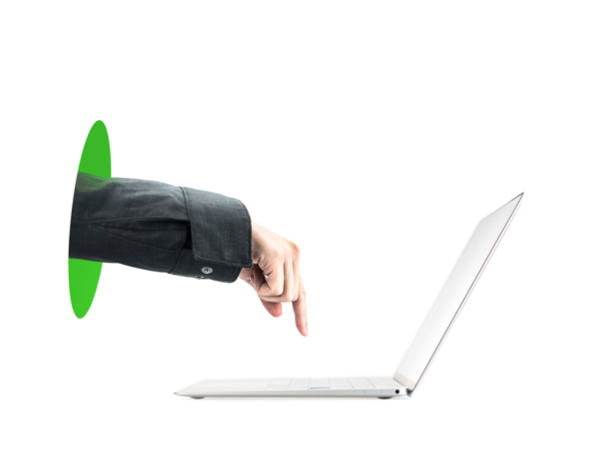
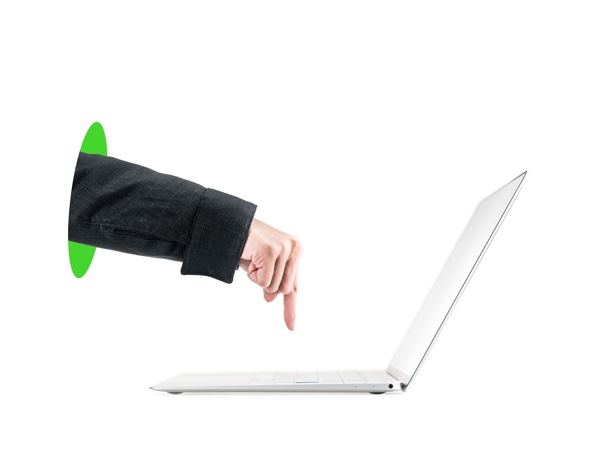
首頁（桌面板）大標頭區域佈局修改

diff --git a/client/stylesheets/components/_billboard.scss b/client/stylesheets/components/_billboard.scss
@@ -4,6 +4,8 @@
   @include desktop {
     margin-top: - $topbar-height--desktop;
     position: relative;
+
+    body.index & { padding-top: 280px; }
   }
 }
 .billboard--text-only {
@@ -21,6 +23,12 @@
     margin: n() 0;
     width: 100%;
     &::before {padding-top: 443/940*100%;}
+
+    body.index & {
+      margin: n() auto;
+      width: span(9 of 12);
+      &::before {padding-top: 1000/1562*100%;}
+    }
   }
 }
 .billboard__image {
@@ -45,6 +53,11 @@
       position: static;
       margin: n() auto;
       width: auto;
+    }
+
+    body.index & {
+      top: 140px;
+      bottom: auto;
     }
   }
 }
